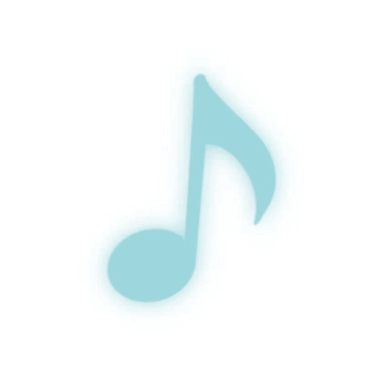
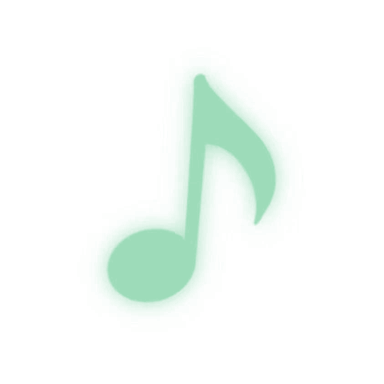
Use soft green intro music state

Changed region(s): [[0.2812, 0.1875, 0.7188, 0.8125]]

diff --git a/river/assets/music-control.js b/river/assets/music-control.js
@@ -21,9 +21,9 @@
     .music-toggle:not([data-page="river"]){width:44px;height:44px;display:grid;place-items:center;background:transparent;border-radius:50%}
     .music-toggle:not([data-page="river"])::before{content:"";position:absolute;inset:3px;border-radius:50%;background:rgba(155,163,166,.55);pointer-events:none}
     .music-toggle:not([data-page="river"]) img{width:38px;height:38px;filter:drop-shadow(0 1px 2px rgba(63,91,103,.16))}
-    .music-toggle:not([data-page="river"]).is-playing::before{box-shadow:0 0 7px rgba(137,202,211,.24)}
-    .music-toggle:not([data-page="river"]).is-playing img{animation:musicIntroHop 2.8s ease-in-out infinite;filter:drop-shadow(0 0 3px rgba(137,202,211,.42))}
-    .music-spark{position:absolute;width:3px;height:3px;background:#9bd5dc;clip-path:polygon(50% 0,65% 35%,100% 50%,65% 65%,50% 100%,35% 65%,0 50%,35% 35%);opacity:0;pointer-events:none}
+    .music-toggle:not([data-page="river"]).is-playing::before{box-shadow:0 0 7px rgba(137,202,170,.24)}
+    .music-toggle:not([data-page="river"]).is-playing img{animation:musicIntroHop 2.8s ease-in-out infinite;filter:drop-shadow(0 0 3px rgba(137,202,170,.42))}
+    .music-spark{position:absolute;width:3px;height:3px;background:#9bd9b5;clip-path:polygon(50% 0,65% 35%,100% 50%,65% 65%,50% 100%,35% 65%,0 50%,35% 35%);opacity:0;pointer-events:none}
     .spark-a{top:3px;right:5px}.spark-b{bottom:6px;left:4px}
     .music-toggle:not([data-page="river"]).is-playing .spark-a{animation:sparkTwinkle 1.8s ease-in-out infinite}
     .music-toggle:not([data-page="river"]).is-playing .spark-b{animation:sparkTwinkle 1.8s .7s ease-in-out infinite}

diff --git a/river/assets/audio.js b/river/assets/audio.js
@@ -9,7 +9,7 @@
   }
   const audioBase=new URL('audio/',document.currentScript.src);
   let ctx,master,sfx,bgm,noise,deliveryTrack,correctTrack,departureTrack,mailboxTrack,swimTrack,bgmTrack;
-  let masterVolume=.85,bgmVolume=.27,speed=0,active=false,underwater=false,lastUpdate=0;
+  let masterVolume=.85,bgmVolume=.3375,speed=0,active=false,underwater=false,lastUpdate=0;
   let swimLevel=0,lastTick=performance.now(),priming=false,primed=false,departing=false;
   let bgmEnabled=true,bgmIntent=false,bgmDucked=false,videoDucked=false,bgmLevel=0,bgmPulseUntil=0;
   try { bgmEnabled=localStorage.getItem('porpoise-bgm-enabled')!=='false'; } catch {}
